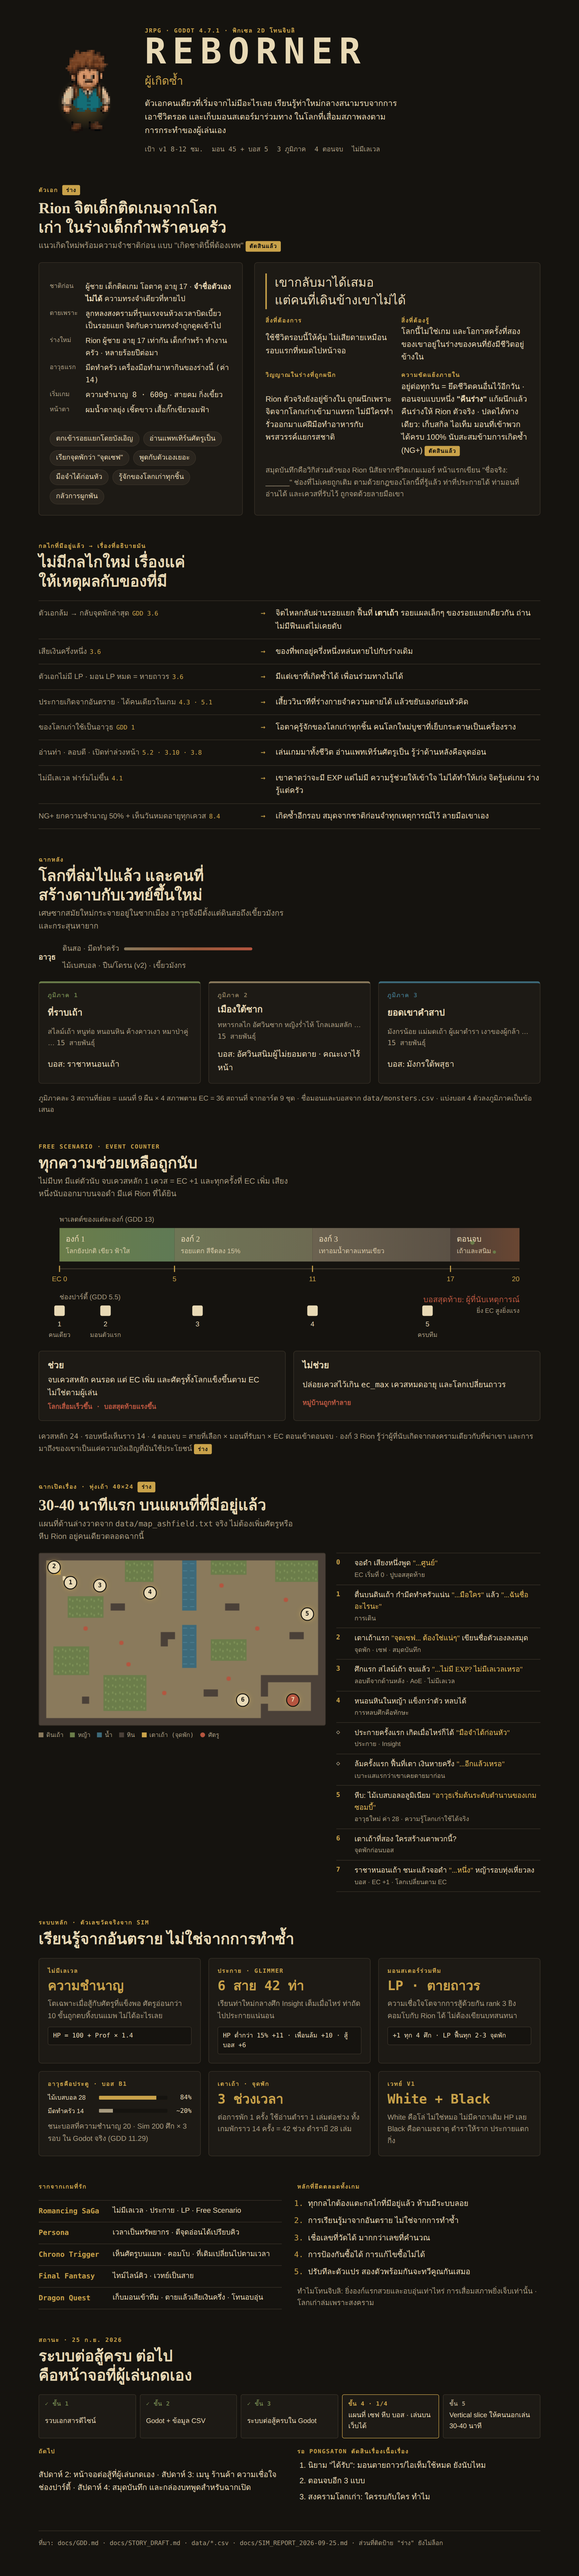
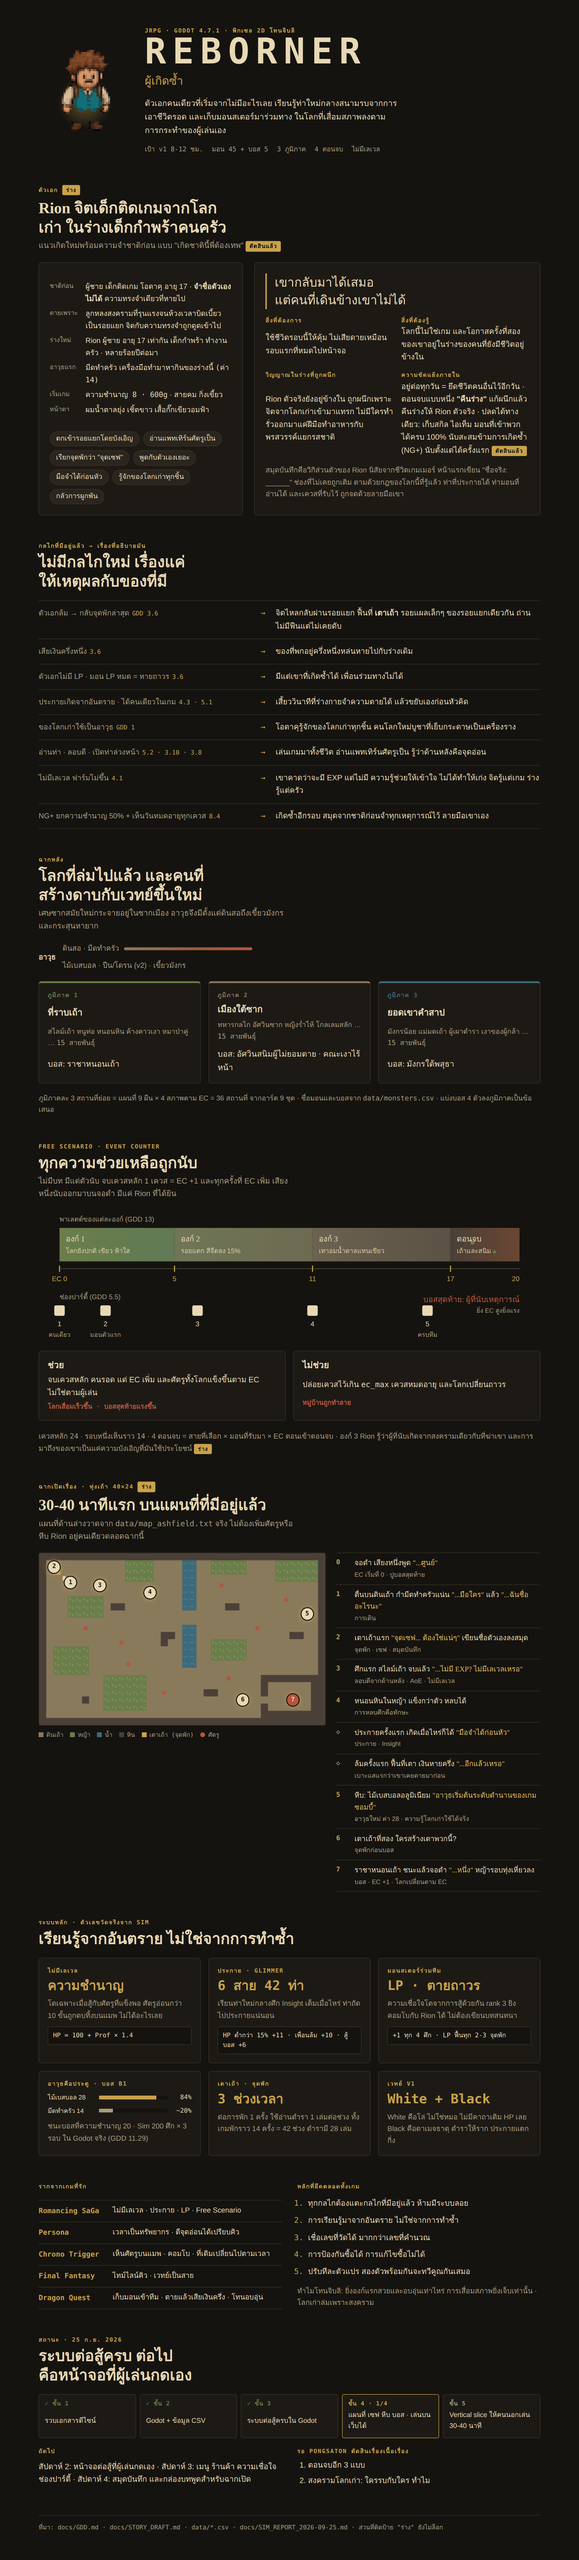
reborner: define 'obtained' for 100% collection (first acquisition counts)
Claude-Session: https://claude.ai/code/session_01GQscemcyhAULQ41Vq3Zx3F

diff --git a/reborner/docs/INFOGRAPHIC.html b/reborner/docs/INFOGRAPHIC.html
@@ -234,7 +234,7 @@ footer { color: var(--muted); font: 500 0.8rem/1.6 var(--hud); border-top: 1px s
       </div>
       <div class="wantneed">
         <div><span class="label">วิญญาณในร่างที่ถูกผนึก</span><p>Rion ตัวจริงยังอยู่ข้างใน ถูกผนึกเพราะจิตจากโลกเก่าเข้ามาแทรก ไม่มีใครทำ รั่วออกมาแค่ฝีมือทำอาหารกับพรสวรรค์แยกรสชาติ</p></div>
-        <div><span class="label">ความขัดแย้งภายใน</span><p>อยู่ต่อทุกวัน = ยึดชีวิตคนอื่นไว้อีกวัน · ตอนจบแบบหนึ่ง <b>"คืนร่าง"</b> แก้ผนึกแล้วคืนร่างให้ Rion ตัวจริง · ปลดได้ทางเดียว: เก็บสกิล ไอเท็ม มอนที่เข้าพวกได้ครบ 100% นับสะสมข้ามการเกิดซ้ำ (NG+) <span class="draft">ตัดสินแล้ว</span></p></div>
+        <div><span class="label">ความขัดแย้งภายใน</span><p>อยู่ต่อทุกวัน = ยึดชีวิตคนอื่นไว้อีกวัน · ตอนจบแบบหนึ่ง <b>"คืนร่าง"</b> แก้ผนึกแล้วคืนร่างให้ Rion ตัวจริง · ปลดได้ทางเดียว: เก็บสกิล ไอเท็ม มอนที่เข้าพวกได้ครบ 100% นับสะสมข้ามการเกิดซ้ำ (NG+) นับตั้งแต่ได้ครั้งแรก <span class="draft">ตัดสินแล้ว</span></p></div>
       </div>
       <p style="color:var(--muted);font-size:0.93rem">สมุดบันทึกคือวิกิส่วนตัวของ Rion นิสัยจากชีวิตเกมเมอร์ หน้าแรกเขียน "ชื่อจริง: ______" ช่องที่ไม่เคยถูกเติม ตามด้วยกฎของโลกนี้ที่รู้แล้ว ท่าที่ประกายได้ ท่ามอนที่อ่านได้ และเควสที่รับไว้ ถูกจดด้วยลายมือเขา</p>
     </div>
@@ -495,7 +495,6 @@ footer { color: var(--muted); font: 500 0.8rem/1.6 var(--hud); border-top: 1px s
     <div class="sec" style="gap:10px">
       <span class="label">รอ Pongsaton ตัดสินเรื่องเนื้อเรื่อง</span>
       <ol class="open-q">
-        <li>นิยาม "ได้รับ": มอนตายถาวร/ไอเท็มใช้หมด ยังนับไหม</li>
         <li>ตอนจบอีก 3 แบบ</li>
         <li>สงครามโลกเก่า: ใครรบกับใคร ทำไม</li>
       </ol>

diff --git a/reborner/docs/STORY_DRAFT.md b/reborner/docs/STORY_DRAFT.md
@@ -146,7 +146,7 @@
 - **✅ ตัดสินแล้ว: นับสะสมข้ามการเกิดซ้ำ (NG+)** บันทึกในสมุดของ Rion ทุกชาติ พอสมุดครบ 100% ผนึกจึงปลดได้
   → ตรงกับชื่อเกม (ผู้เกิดซ้ำ) · ตรงกับ GDD 14 ข้อ 2 ที่อยากได้ความยาวจากการเล่นซ้ำ 6-8 รอบ ไม่ใช่ยืดรอบเดียว · ไม่ต้องแก้ตัวเลขที่จูนแล้ว
   → สิ่งที่ต้องทำในเซฟ: แยก "สมุดสะสม" ออกจากเซฟรายรอบ ไม่ถูกล้างเมื่อเริ่ม NG+ (ยังไม่ได้ทำ · ทำพร้อมระบบสมุดบันทึก สัปดาห์ 4)
-- ต้องนิยาม "ได้รับ" ให้ชัดก่อนทำระบบ: มอนตายถาวรแล้วยังนับไหม (ข้อเสนอ: นับ เพราะความคืบหน้าเก็บที่สายพันธุ์ · 3.6) · ไอเท็มใช้หมดแล้วยังนับไหม (ข้อเสนอ: นับครั้งแรกที่ได้)
+- **นิยาม "ได้รับ" (✅ ตัดสินแล้ว):** มอนนับตั้งแต่รับเข้าพวกครั้งแรก ตายถาวรแล้วก็ยังนับ (ความคืบหน้าเก็บที่สายพันธุ์ · 3.6) · ไอเท็มนับตั้งแต่ได้ครั้งแรก ใช้หมดแล้วก็ยังนับ · สกิลนับตั้งแต่เรียนได้ครั้งแรก
 - ไอเท็มที่ได้จากดรอปแบบสุ่ม (ตำรากลาง 15-25% · 7.3) ต้องมีทางได้แน่นอนสำรอง ไม่งั้นทรูเอนด์ขึ้นกับดวง (กฎ 7.3 "อะไรที่ขาดแล้วเกมพัง ห้ามเป็น RNG")
 - ดันเจี้ยนสุดท้ายใช้ร่วมกัน ต่างแค่ฉากปิด 5-8 นาที (8.4) → ตอนจบนี้ = ฉากปิดแบบหนึ่ง ไม่ต้องสร้างด่านเพิ่ม
 - ข้อเสนอ: วินาทีที่จิตออกจากร่าง เขานึกชื่อชาติก่อนออก ผู้เล่นเห็นแค่ปากขยับ ไม่เห็นตัวอักษร (ชื่อยังไม่ถูกเฉลยแม้ในตอนจบนี้)
@@ -177,9 +177,8 @@
 - ชื่อ ปิ่น / ยายขี้เถ้า **ใช้ไปก่อน**
 - ผนึกเกิดจาก **การเข้ามาแทรก** ของจิตจากโลกเก่า ไม่มีใครทำ
 - ตอนจบแบบหนึ่งใน 4 = **คืนร่างให้ Rion ตัวจริง** (ดู 4.5)
-- เงื่อนไขปลดผนึก = เก็บสกิล ไอเท็ม มอนที่เข้าพวกได้ **ครบ 100%** (ทางเดียว) · **นับสะสมข้ามการเกิดซ้ำ (NG+)**
+- เงื่อนไขปลดผนึก = เก็บสกิล ไอเท็ม มอนที่เข้าพวกได้ **ครบ 100%** (ทางเดียว) · **นับสะสมข้ามการเกิดซ้ำ (NG+)** · นับตั้งแต่ได้ครั้งแรก มอนตาย/ไอเท็มใช้หมดก็ยังนับ
 
 ยังเปิดอยู่:
-1. นิยาม "ได้รับ": มอนตายถาวรแล้วนับไหม · ไอเท็มใช้หมดแล้วนับไหม (ข้อเสนอ: นับทั้งคู่)
-2. ตอนจบอีก 3 แบบ
-3. สงครามโลกเก่า: ใครรบกับใคร ทำไม
+1. ตอนจบอีก 3 แบบ
+2. สงครามโลกเก่า: ใครรบกับใคร ทำไม
